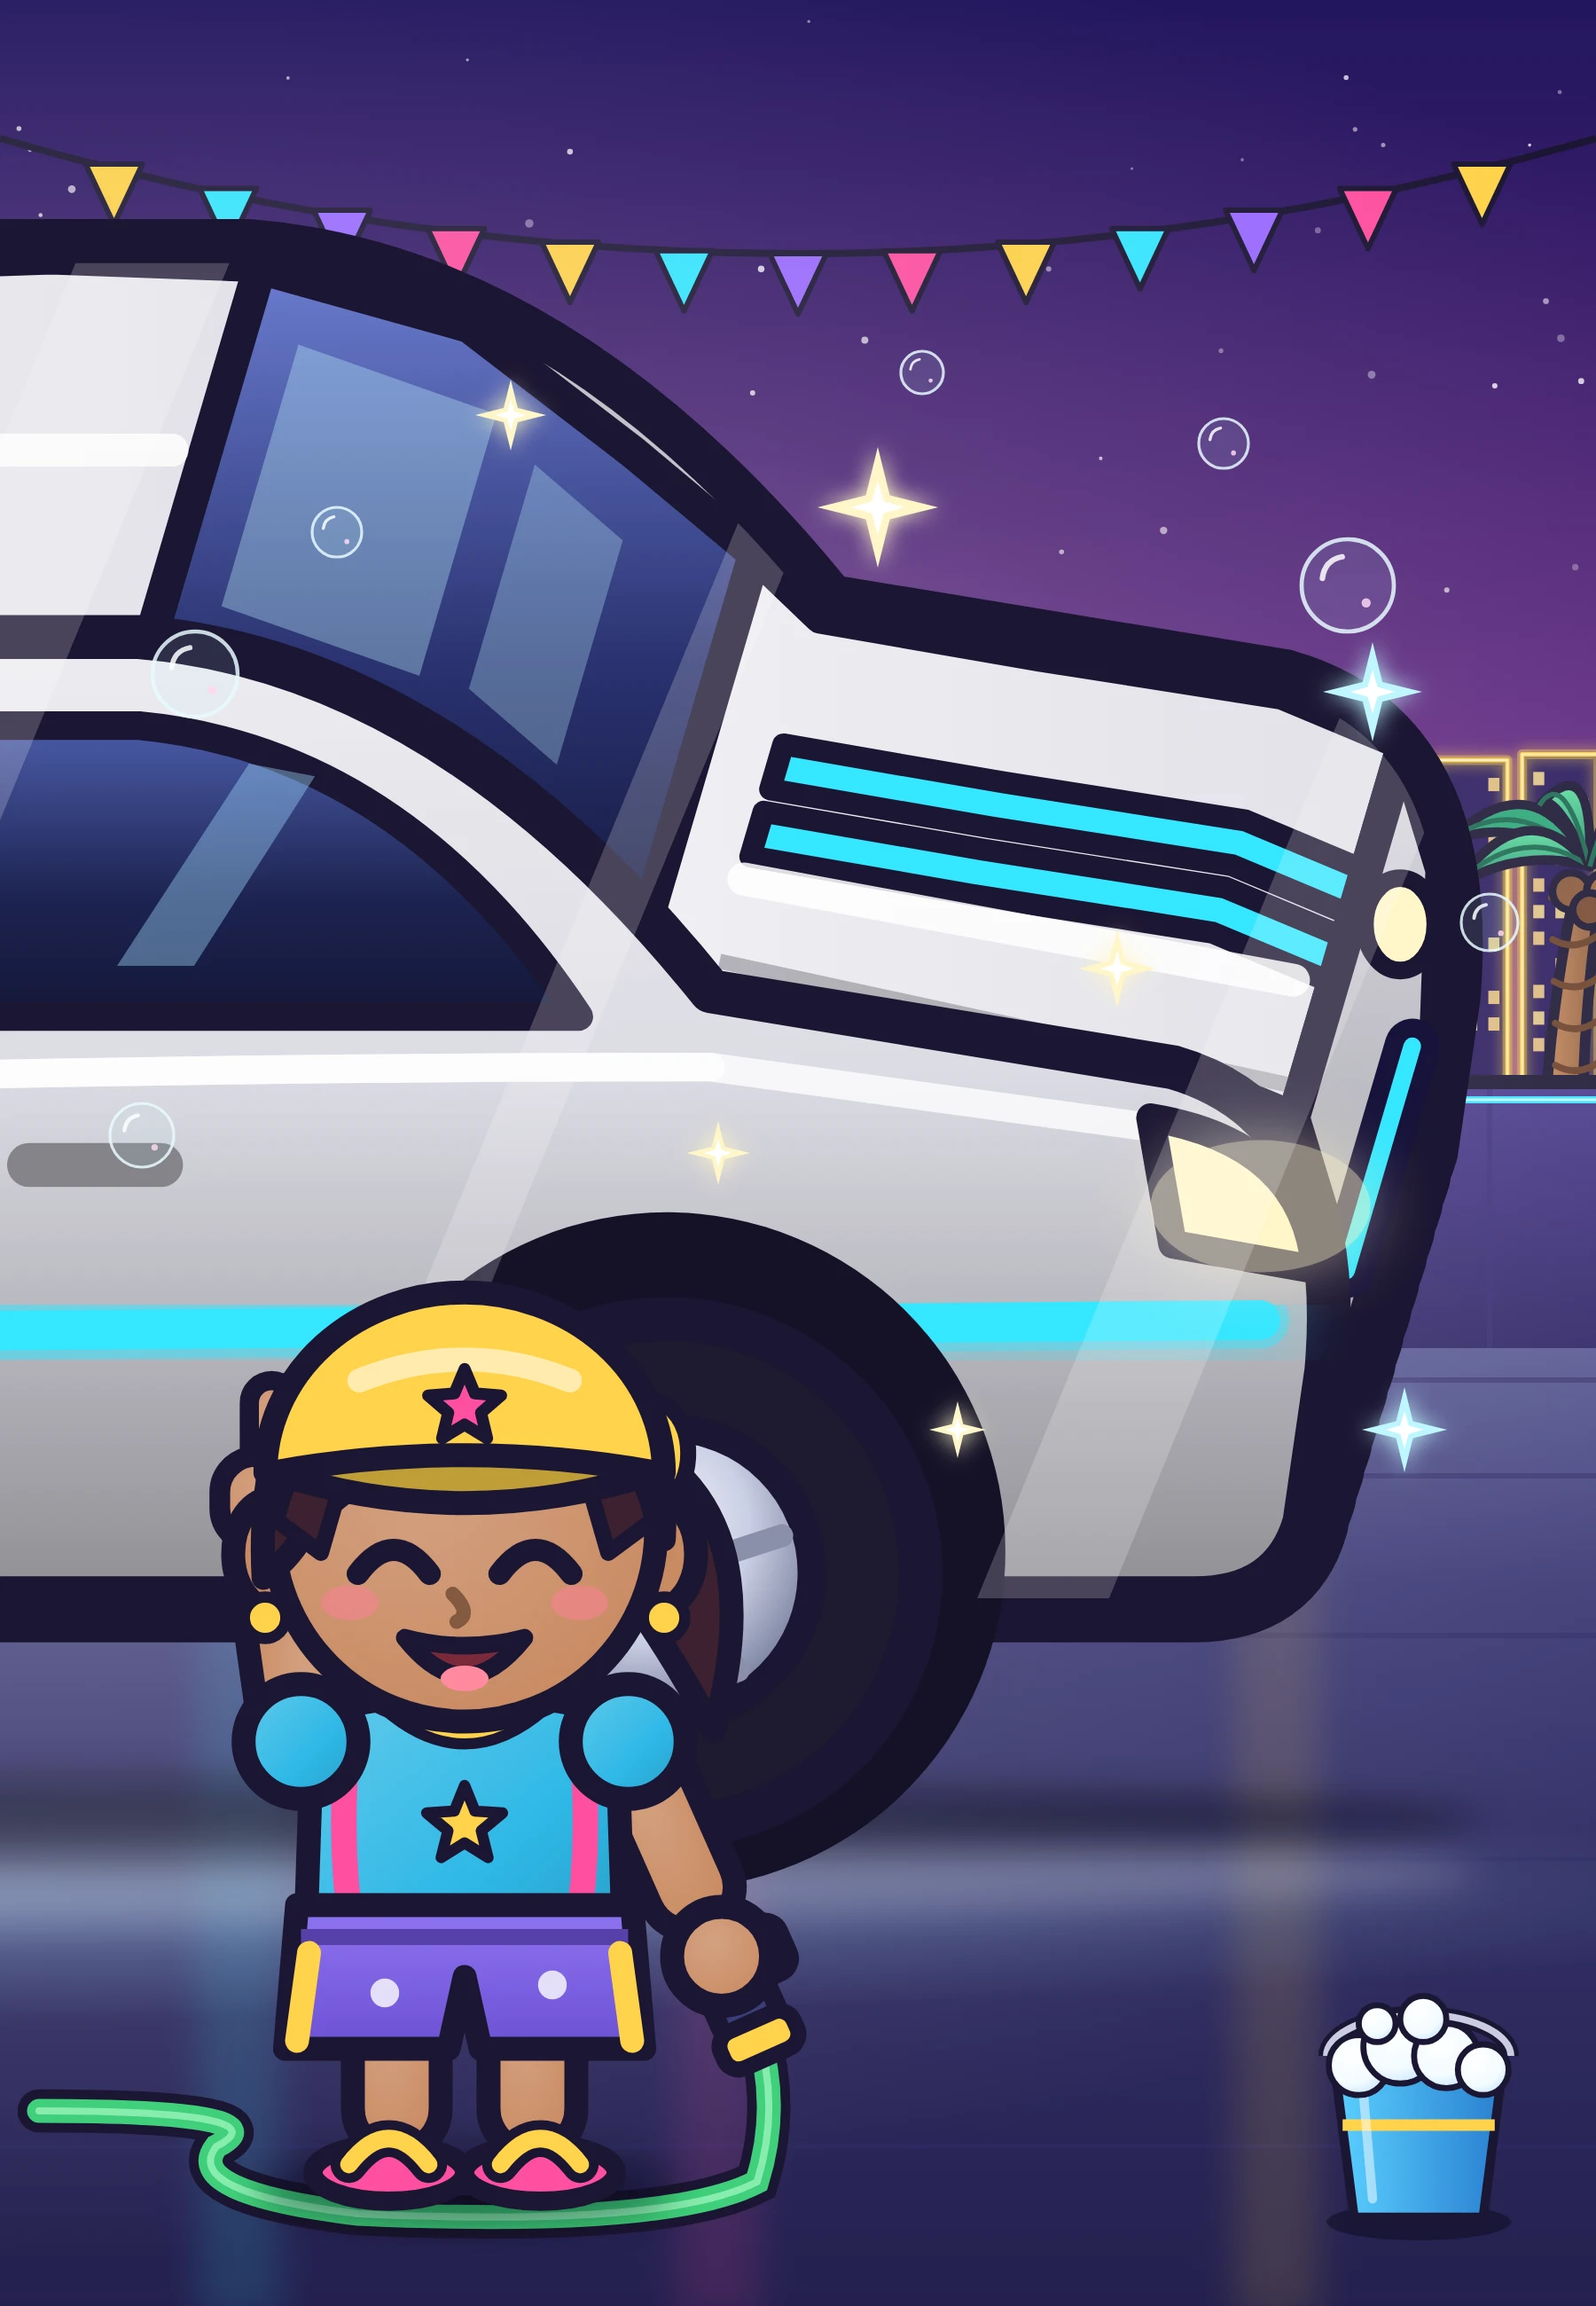
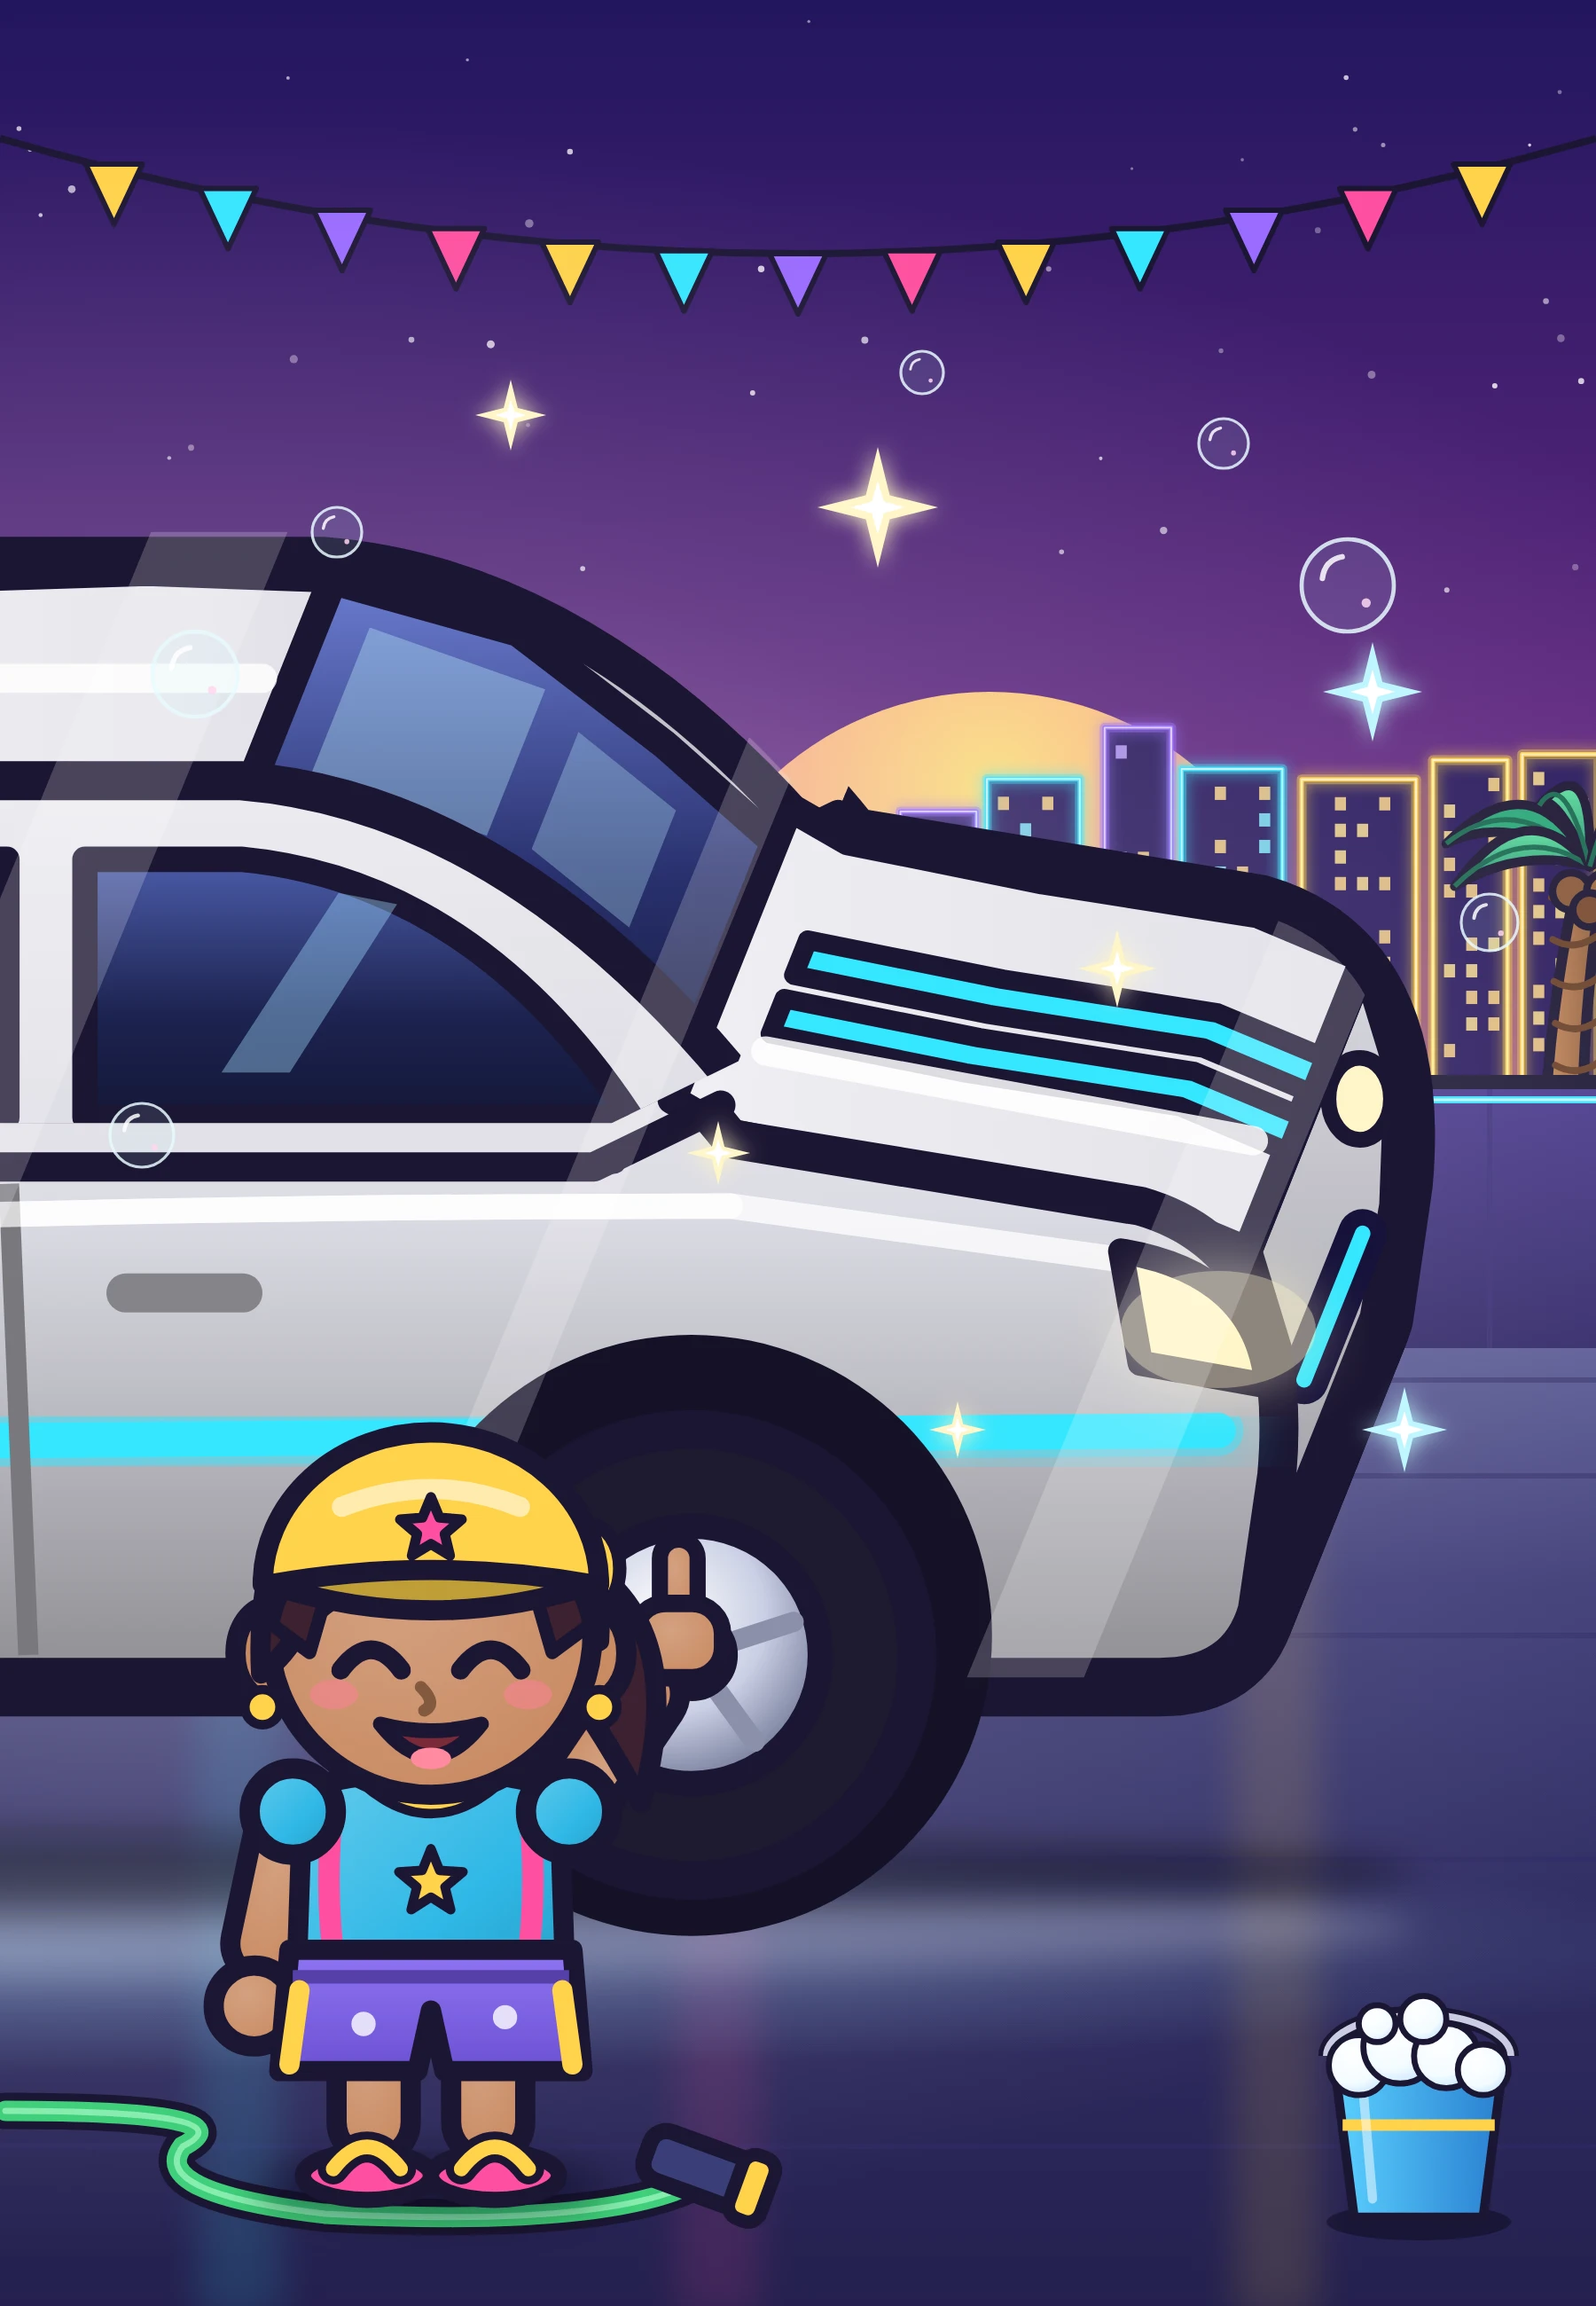
WIP: engine sync (closeup.wide, rideWidth, cuwide probe), GTA wash wide wiring
Claude-Session: https://claude.ai/code/session_011bftBeXudnSzAMBxDFXhpR

diff --git a/game.config.js b/game.config.js
@@ -140,12 +140,12 @@ window.GAME = {
       car_back: { path: "assets/img/car_back.webp", res: 2 }, cone: { path: "assets/img/cone.webp", res: 2 },
       bldg_a: { path: "assets/img/bldg_a.webp", res: 2 }, bldg_b: { path: "assets/img/bldg_b.webp", res: 2 },
       // car-wash close-up (hood seen from the front; "_done" = shiny) + mud splats + sponge
-      wash_silver: { path: "assets/img/wash_silver.webp", res: 2 }, wash_silver_done: { path: "assets/img/wash_silver_done.webp", res: 2 },
-      wash_red: { path: "assets/img/wash_red.webp", res: 2 }, wash_red_done: { path: "assets/img/wash_red_done.webp", res: 2 },
-      wash_blue: { path: "assets/img/wash_blue.webp", res: 2 }, wash_blue_done: { path: "assets/img/wash_blue_done.webp", res: 2 },
-      wash_yellow: { path: "assets/img/wash_yellow.webp", res: 2 }, wash_yellow_done: { path: "assets/img/wash_yellow_done.webp", res: 2 },
-      wash_green: { path: "assets/img/wash_green.webp", res: 2 }, wash_green_done: { path: "assets/img/wash_green_done.webp", res: 2 },
-      wash_purple: { path: "assets/img/wash_purple.webp", res: 2 }, wash_purple_done: { path: "assets/img/wash_purple_done.webp", res: 2 },
+      wash_silver: { path: "assets/img/wash_silver.webp", res: 2 }, wash_silver_done: { path: "assets/img/wash_silver_done.webp", res: 2 }, wash_silver_wide: { path: "assets/img/wash_silver_wide.webp", res: 2 }, wash_silver_wide_done: { path: "assets/img/wash_silver_wide_done.webp", res: 2 },
+      wash_red: { path: "assets/img/wash_red.webp", res: 2 }, wash_red_done: { path: "assets/img/wash_red_done.webp", res: 2 }, wash_red_wide: { path: "assets/img/wash_red_wide.webp", res: 2 }, wash_red_wide_done: { path: "assets/img/wash_red_wide_done.webp", res: 2 },
+      wash_blue: { path: "assets/img/wash_blue.webp", res: 2 }, wash_blue_done: { path: "assets/img/wash_blue_done.webp", res: 2 }, wash_blue_wide: { path: "assets/img/wash_blue_wide.webp", res: 2 }, wash_blue_wide_done: { path: "assets/img/wash_blue_wide_done.webp", res: 2 },
+      wash_yellow: { path: "assets/img/wash_yellow.webp", res: 2 }, wash_yellow_done: { path: "assets/img/wash_yellow_done.webp", res: 2 }, wash_yellow_wide: { path: "assets/img/wash_yellow_wide.webp", res: 2 }, wash_yellow_wide_done: { path: "assets/img/wash_yellow_wide_done.webp", res: 2 },
+      wash_green: { path: "assets/img/wash_green.webp", res: 2 }, wash_green_done: { path: "assets/img/wash_green_done.webp", res: 2 }, wash_green_wide: { path: "assets/img/wash_green_wide.webp", res: 2 }, wash_green_wide_done: { path: "assets/img/wash_green_wide_done.webp", res: 2 },
+      wash_purple: { path: "assets/img/wash_purple.webp", res: 2 }, wash_purple_done: { path: "assets/img/wash_purple_done.webp", res: 2 }, wash_purple_wide: { path: "assets/img/wash_purple_wide.webp", res: 2 }, wash_purple_wide_done: { path: "assets/img/wash_purple_wide_done.webp", res: 2 },
       mud_a: "assets/img/mud_a.webp", mud_b: "assets/img/mud_b.webp", mud_c: "assets/img/mud_c.webp", sponge: "assets/img/sponge.webp",
     },
     sheets: {
@@ -191,12 +191,12 @@ window.GAME = {
     // low-fuel warning bubble
     wantBubble: { sprite: "want_gas", need: "fuel", below: 30, intermittent: true, scale: 0.55, lift: 18, showFor: 2.4, hideMin: 5, hideMax: 11 },
     variants: [
-      { id: "silver", name: "Argent", color: "#dcdce4" , closeupBg: "wash_silver", closeupBgDone: "wash_silver_done" },
-      { id: "red", name: "Rouge", color: "#e24a4a", tint: "#ff5a5a" , closeupBg: "wash_red", closeupBgDone: "wash_red_done" },
-      { id: "blue", name: "Bleue", color: "#4a96f0", tint: "#5aa6ff" , closeupBg: "wash_blue", closeupBgDone: "wash_blue_done" },
-      { id: "yellow", name: "Jaune", color: "#facd46", tint: "#ffd84a" , closeupBg: "wash_yellow", closeupBgDone: "wash_yellow_done" },
-      { id: "green", name: "Verte", color: "#5ac878", tint: "#6ad888" , closeupBg: "wash_green", closeupBgDone: "wash_green_done" },
-      { id: "purple", name: "Violette", color: "#b06cf0", tint: "#c07cff" , closeupBg: "wash_purple", closeupBgDone: "wash_purple_done" },
+      { id: "silver", name: "Argent", color: "#dcdce4" , closeupBg: "wash_silver", closeupBgDone: "wash_silver_done", closeupBgWide: "wash_silver_wide", closeupBgWideDone: "wash_silver_wide_done" },
+      { id: "red", name: "Rouge", color: "#e24a4a", tint: "#ff5a5a" , closeupBg: "wash_red", closeupBgDone: "wash_red_done", closeupBgWide: "wash_red_wide", closeupBgWideDone: "wash_red_wide_done" },
+      { id: "blue", name: "Bleue", color: "#4a96f0", tint: "#5aa6ff" , closeupBg: "wash_blue", closeupBgDone: "wash_blue_done", closeupBgWide: "wash_blue_wide", closeupBgWideDone: "wash_blue_wide_done" },
+      { id: "yellow", name: "Jaune", color: "#facd46", tint: "#ffd84a" , closeupBg: "wash_yellow", closeupBgDone: "wash_yellow_done", closeupBgWide: "wash_yellow_wide", closeupBgWideDone: "wash_yellow_wide_done" },
+      { id: "green", name: "Verte", color: "#5ac878", tint: "#6ad888" , closeupBg: "wash_green", closeupBgDone: "wash_green_done", closeupBgWide: "wash_green_wide", closeupBgWideDone: "wash_green_wide_done" },
+      { id: "purple", name: "Violette", color: "#b06cf0", tint: "#c07cff" , closeupBg: "wash_purple", closeupBgDone: "wash_purple_done", closeupBgWide: "wash_purple_wide", closeupBgWideDone: "wash_purple_wide_done" },
     ],
     actions: [
       { id: "drive", type: "ride", label: "Conduire", icon: "car", color: "#38e0e6", dismountLabel: "Descendre", dismountIcon: "close" },
@@ -207,8 +207,11 @@ window.GAME = {
         closeup: {
           bg: "wash_silver", spotSprites: ["mud_a", "mud_b", "mud_c"], brush: "sponge", brushTip: { x: 0.363, y: 0.794 },
           spots: { base: 4, growEvery: 2, max: 9, rubs: 3, size: 150, minGap: 0.08,
-                   // left & right halves of the painted hood (between the panel edges and the stripes)
-                   area: [{ x: 0.294, y: 0.369, w: 0.137, h: 0.269 }, { x: 0.569, y: 0.369, w: 0.137, h: 0.269 }] },
+                   // the hood top, then the side panel (washAreas() in tools/art/neon.cjs)
+                   area: [{ x: 0.487, y: 0.421, w: 0.303, h: 0.038 }, { x: 0.47, y: 0.535, w: 0.208, h: 0.03 }] },
+          // phone held sideways: the whole car in 3/4 view (same areas order: hood, side — washAreas() in neon.cjs)
+          wide: { bg: "wash_silver_wide", bgDone: "wash_silver_wide_done",
+                  area: [{ x: 0.748, y: 0.463, w: 0.142, h: 0.046 }, { x: 0.355, y: 0.621, w: 0.259, h: 0.153 }] },
           finishParticles: ["sparkle", "star"],
           foam: { colors: ["#ffffff", "#e3f9ff", "#c8f4ff"] },
         },

diff --git a/.claude/skills/_shared/README.md b/.claude/skills/_shared/README.md
@@ -22,6 +22,7 @@ run by Claude Code through the **Bash** tool.
 | `contact-sheet.py` | Labelled contact sheet(s) of a folder of screenshots: `python3 contact-sheet.py DIR`. |
 | `probes/jitter.cjs` | A ridden creature/vehicle must not shake: three tap-to-move rides at ~15 fps (CPU ×6), fails on flip-flopping facing or a destination never reached. |
 | `probes/racehud.cjs` | Race HUD on one row: time / distance / speed chips never wrap, overlap or spill their value, even with the longest values. Run on 390, 360 and 320 px wide devices. |
+| `probes/cuwide.cjs` | Close-up rotation (`closeup.wide`): portrait → landscape → portrait swaps the backdrop, keeps every spot on the subject, finishes on the wide "done" image. Run on WebKit iPhone 13 for any game whose close-up has a `wide` backdrop. |
 | `probes/barriers.cjs` | Trail-loop barriers seal the path: riding, nothing gets past at any height (only Jump clears it); on foot the character hops over and tap-to-move reaches every section (no soft-lock). |
 | `probes/edges.cjs` | The trail-loop edges are a wall: walking from the path towards each edge (on foot and riding) never ends up past the hedge band. |
 | `probes/edgegap.cjs` | The player stops right at the drawn edge of the band (hedges, rocks): gap <= 14 px walking towards it in the 4 directions, never inside the drawing. |
